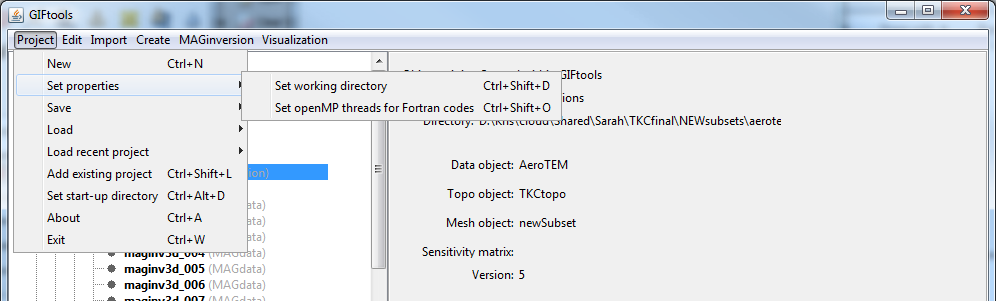
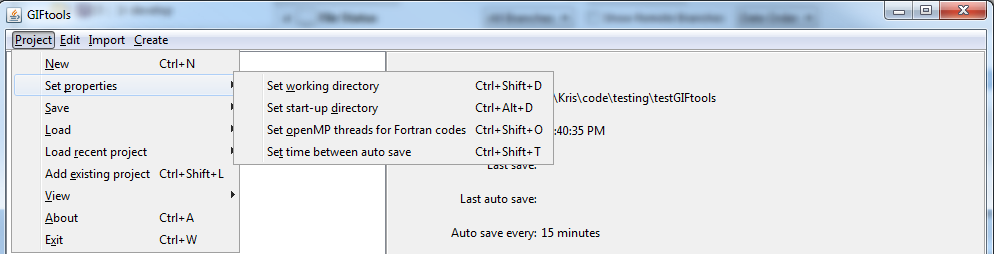
Surface recipe and importation of surfaces.

diff --git a/content/recipes/surfaceInInversion.rst b/content/recipes/surfaceInInversion.rst
@@ -1,0 +1,75 @@
+.. _SurfaceInInversion:
+
+.. include:: <isonum.txt>
+
+Use a surface (or surfaces) in an inversion
+===========================================
+
+In GIFtools, surfaces are imported and used to create or edit a geology model. This allows one to set bounds, weights, and a physical property based on the geology ID. This is particularly useful for inversion of multiple data types in the same area. Below are the steps to put information from a surface (or surfaces) in an inversion.
+
+**NOTE:** In future releases of GIFtools, this functionality will be streamlined in a :ref:`inversion workflow <createInversionWorkflow>`. For now, the surface(s) and :ref:`modelBuilder module <createModelBuilder>` are required. Below are details of the step required to create reference models, bounds, etc from a surface.
+
+1. :ref:`Import a surface <importSurface>` or surfaces (import each surface individually). Below is a surface and mesh used in this example.
+
+   
+.. figure:: ../../images/surfaceEx.png
+    :align: center
+    :width: 400
+
+
+2. :ref:`Create <createModelBuilder>` or click an already created modelBuilder module.
+
+3. Within the modelbuilder module use the menu below, even if only using one surface. Create or edit a geology model using the dialog found through the menu:
+
+   **Create** |rarr| **Model** |rarr| **Value between two surfaces**
+
+.. figure:: ../../images/mbCreateModel.png
+    :align: center
+    :width: 400
+
+
+.. End of figure
+
+     **NOTES on step 3:**
+
+     - If creating a geology model, it is recommended to use "2" as the anomalous unit integer. Unit 1 is the background normal space and Unit 0 (if present) is reserved for air. 
+
+     - Select the value between two surfaces even if you only have one surface (the second will be the topography or a value in depth)
+
+     - To continue the surface to depth (or above), use the "value" option and give an elevation. To continue the unit to the bottom of the mesh, use a value that is below the bottom of the mesh (i.e., -500000). 
+
+     - The model will only be affected in the area that the surface exists. GIFtools will not extrapolate the data to the edges of the mesh (unless that option has already been performed by the user via the surface menu).
+
+
+       **For multiple surfaces:** 
+     
+            - Use this function multiple times creating (or editing the "single unit" geology model created by modelBuilder) the geology model during the first run and then editing it on the next runs. Make sure to view the model at each step to make everything worked as desired. A copy of the model is suggested at each stage that can be deleted after the next unit is properly added.
+
+Here is contribution from the surface has contributed to the model. Unit 1 is blue (original unit) and Unit 2 is red. The physical properties, bounds, etc. for these two units is specified through step 5 (geology definition).
+
+.. figure:: ../../images/surfaceToModelEx.png
+    :align: center
+    :width: 400
+
+
+5. The following steps are required (in order) due to the fact that the geology model must have a definition.
+   
+   - Set the geology definition: Create it using the **Geology definition** |rarr| **Edit** option within the geology model menu or :ref:`import the definition <geoDeffile>`. 
+
+   - Set the definition's i/o headers to correspond on what is desired to be built (weights, bounds, etc.). Use the menu from the geology model:
+
+         **Geology definition** |rarr| **Set i/o headers** 
+
+   - Use the modelBuilder module **Build constraints** menu and build the models desired for the inversion (e.g., **Build constraints** |rarr| **Reference model**). Add the geology model from the image to the list of models to use for creation. 
+     
+      - **NOTE:** To use the geology model to create only smallest component weights follow the steps:
+
+         a. Set geology model to the modelBuilder's geology model using **Model Builder** |rarr| **Set model** |rarr| **Geology**
+
+         b. Ensure that the modelBuilder has a reference model (MB Reference Model), if not you will have to set one through the menu above, but with the "Reference" option. If only a weighting based on the units is desired, the reference model should be constant. This model can be created from the "Single rock unit" geology model by selecting the GEOmodel and then using the menu **Create model** |rarr| **From property values**. The spatial weights will be influenced if a reference model is already defined with other information (i.e., borehole discretization).
+
+         c. Use the menu **Build constraints** |rarr| **Weighting functions** |rarr| **From reference and geology models**.
+
+6. Once the models are built, they can be used in the inversion by selecting the inversion item and :ref:`editing its options <invEditOptions>`. Select the models made from the build within modelBuilder with the option on how it should be used (i.e., reference model, initial model, bounds, weights).
+
+

diff --git a/content/recipes/imageInInversion.rst b/content/recipes/imageInInversion.rst
@@ -1,4 +1,4 @@
-.. _imageToInversion:
+.. _imageInInversion:
 
 .. include:: <isonum.txt>
 
@@ -7,7 +7,7 @@ Use a geologic image in an inversion
 
 GIFtools can import a geologic image and convert it to a geology model. This allows one to set bounds, weights, and a physical property based on the geology ID. This is particularly useful for inversion of multiple data types in the same area. Below are the steps to use a geologic image in an inversion.
 
-**NOTE:** In future releases of GIFtools, this functionality will be streamlined in a :ref:`inversion workflow <createInversionWorkflow>`. For now, an image and :ref:`modelBuilder module <createModelBuilder>` is required. Below are details of the step required to create reference models, bounds, etc from an image.
+**NOTE:** In future releases of GIFtools, this functionality will be streamlined in a :ref:`inversion workflow <createInversionWorkflow>`. For now, an image and :ref:`modelBuilder module <createModelBuilder>` are required. Below are details of the step required to create reference models, bounds, etc from an image.
 
 1. :ref:`Import a geologic image <importImage>`. The image should have solid colours indicating geologic zones (see below for example). The algorithms developed in GIFtools will struggle if annotations are included in the image.
 
@@ -18,7 +18,7 @@ GIFtools can import a geologic image and convert it to a geology model. This all
 
 2. If the legend file was not imported with the mesh, either :ref:`import or create <legendFile>` the image legend through the image menu. This file gives the ID and its corresponding colour code (RGB).
 
-3. :ref:`Create <createModelBuilder>` or open modelBuilder module (click on modelBuilder item and use the menu **Model Builder** |rarr| **Show Builder**).
+3. :ref:`Create <createModelBuilder>` or use an already existing modelBuilder module (make sure it is on a mesh with the same dimensions as in the inversion).
 
 4. Within the modelbuilder module use the menu below. Create a geology model using the dialog found through the menu:
 
@@ -43,7 +43,7 @@ Here is the image now discretized on a mesh
 
          **Geology definition** |rarr| **Set i/o headers** 
 
-   - Use the modelBuilder module **Build** menu and build the models desired for the inversion (e.g., **Build** |rarr| **Reference model**). Add the geology model from the image to the list of models to use for creation.
+   - Use the modelBuilder module **Build constraints** menu and build the models desired for the inversion (e.g., **Build constraints** |rarr| **Reference model**). Add the geology model from the image to the list of models to use for creation.
 
 6. Once the models are built, they can be used in the inversion by selecting the inversion item and :ref:`editing its options <invEditOptions>`. Select the models made from the build within modelBuilder with the option on how it should be used (i.e., reference model, initial model, bounds, weights).
 

diff --git a/content/generalFunctionality/project/autoSave.rst b/content/generalFunctionality/project/autoSave.rst
@@ -1,0 +1,19 @@
+.. _projAutoSave:
+
+.. include:: <isonum.txt>
+
+Project auto-save functionality
+===============================
+
+GIFtools will auto-save a *copy* of the project. The feature is helpful in case something was deleted, for some reason the program crashed, or you forgot to save the project before quitting GIFtools. The auto-save copy is called "GIFtoolsAutoSave.mat" and is located in the ``\Windows\Users\yourUserName`` (i.e., home) folder. Please note that the **current project file is not touched** when auto saving and that the auto-save project will be *over-written* each time this function is called. The project can be saved in its normal location by using the :ref:`Save project <projSave>` feature. The user may select the amount of passing time (in minutes) between auto saves. To set this time, use the menu structure below:
+
+- **Project** |rarr| **Set properties** |rarr| **Set time between auto save**
+
+.. figure:: ../../../images/projectPropMenu.png
+    :align: center
+    :width: 400
+
+**NOTE 1:** The shortcut for saving a project is ``control + shift + t``.
+
+**NOTE 2:** The counter for auto save automatically re-sets after a project has been saved. The user can see the last time an auto save occurred in the information panel by clicking on the project in the tree.
+

diff --git a/content/import/data/importSurface.rst b/content/import/data/importSurface.rst
@@ -1,0 +1,22 @@
+.. _importSurface:
+
+.. include:: <isonum.txt>
+
+Import a surface
+================
+
+Use the main project menu: **Import** |rarr| **Surface**
+
+.. figure:: ../../../images/importSurface.png
+    :align: center
+    :width: 400
+
+File formats
+------------
+
+Topography can be imported through three different file formats:
+
+    - :ref:`GIF format <topoGIF3Dfile>` (Same as topography)
+    - :ref:`XYZ format <XYZfile>`
+    - :ref:`CSV format <CSVfile>`
+

diff --git a/content/generalFunctionality/generalFunctionality_index.rst b/content/generalFunctionality/generalFunctionality_index.rst
@@ -28,6 +28,7 @@ Project
         Load a recent project <project/loadRecent>
         Add an existing project <project/addProject>        
         Save <project/save>
+        Auto-save functionality <project/autoSave>
         Set the working directory <project/setWorkDir>
         Set the starting directory <project/setStartingDir>
         Set the number of OpenMP threads <project/setOMPthreads>        

diff --git a/content/recipes/recipe_index.rst b/content/recipes/recipe_index.rst
@@ -6,7 +6,8 @@ Recipes
 .. toctree::
    :maxdepth: 1
 
-    Use a geologic map in an inversion <imageToInversion>
+    Use a geologic map in an inversion <imageInInversion>
+    Use a surface (or surfaces) in an inversion <surfaceInInversion>
 
 ..   Project DC/IP 3D data onto a 2D lines for DCIP2D inversion <dcip3Dto2D>
 

diff --git a/content/import/import_index.rst b/content/import/import_index.rst
@@ -21,6 +21,7 @@ Data
     Time-domain EM data <data/importTemData>    
     ZTEM or MT data <data/importNSEMData>
     Geologic images <data/importImage>
+    Surface  <data/importSurface>
 
 Mesh
 ----
